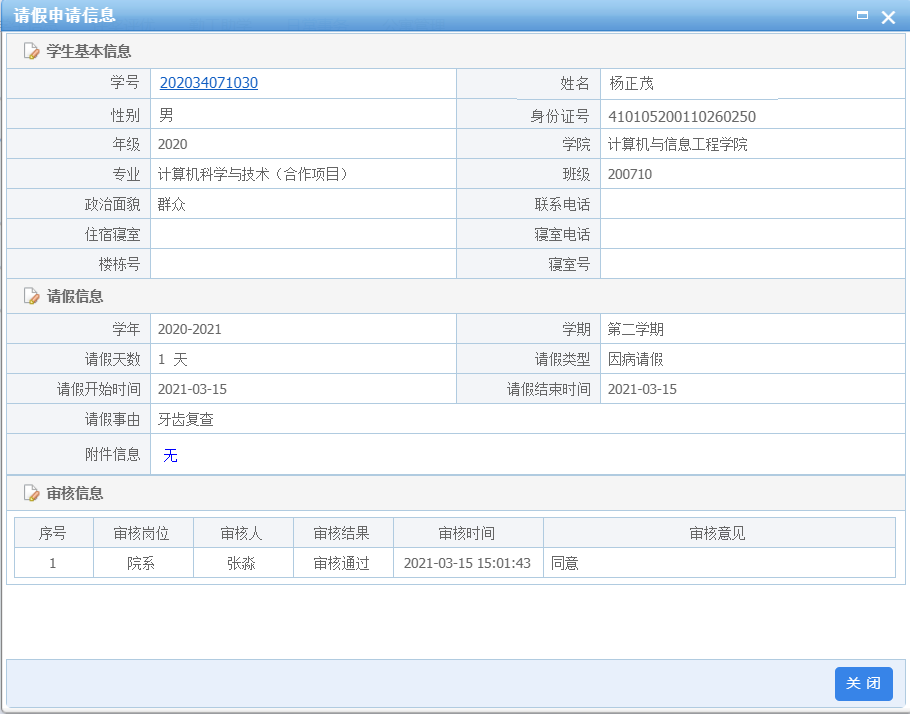
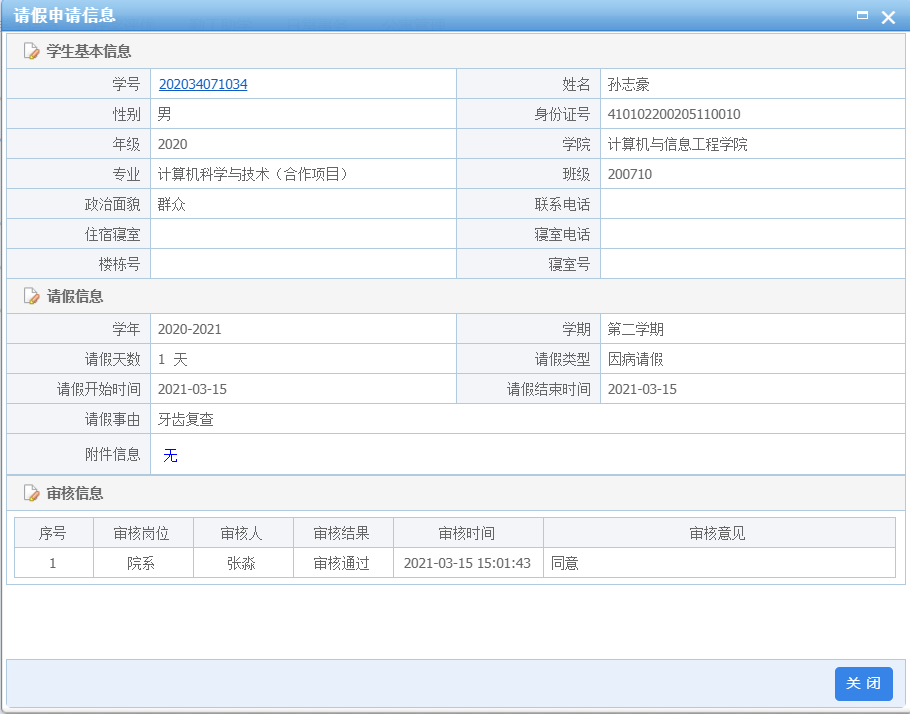
Add files via upload

diff --git a/index.html b/index.html
@@ -8,12 +8,12 @@
 </head>
 
 <body>
-<div align="center" style="position:absolute;left:750px;top:260px">
+<div align="center" style="position:absolute;left:750px;top:250px">
     <body> 
         <p>
 			<font size="2">
 			<a href = "javascript:void(0)" onclick = "document.getElementById('light').style.display='block';document.getElementById('fade').style.display='block'">
-				202034071030
+				202034071034
 			</a>
 		</p> 
 	</body>
@@ -34,21 +34,21 @@
 	
 	
 	
-<div align="center" style="position:absolute;left:750px;top:315px">
+<div align="center" style="position:absolute;left:750px;top:285px">
     <body> 
         <p>
 			<a href = "javascript:void(0)" onclick = "document.getElementById('dark').style.display='block';document.getElementById('fade').style.display='block'">
-				202034071030
+				202034071034
 			</a>
 		</p>
 	</body>
 </div>
 	
-<div align="center" style="position:absolute;left:750px;top:355px">
+<div align="center" style="position:absolute;left:750px;top:320px">
    <body> 
         <p>
 			<a href = "javascript:void(0)" onclick = "document.getElementById('DL').style.display='block';document.getElementById('fade').style.display='block'">
-				202034071030
+				202034071034
 			</a>
 		</p> 
 	 </body>
